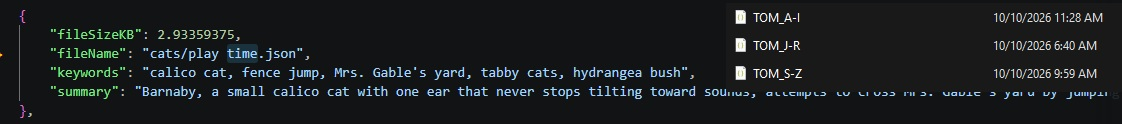
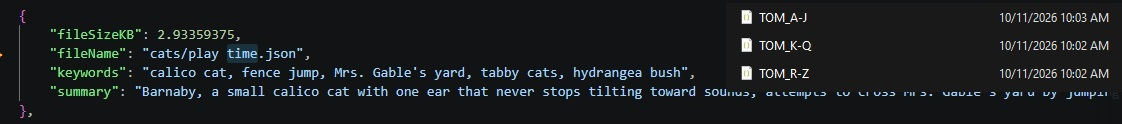
changed the TOM alphabet ranges, jr could conflict with user saying TOM jr.

diff --git a/src/tableOfMemories.ts b/src/tableOfMemories.ts
@@ -42,9 +42,9 @@ async function createTableOfMemories(
     memoriesDirectory: string,
 ): Promise<void> {
     const tableNames = [
-        "TOM_A-I.json",
-        "TOM_J-R.json",
-        "TOM_S-Z.json", // Special characters will live in S-Z.
+        "TOM_A-J.json",
+        "TOM_K-Q.json",
+        "TOM_R-Z.json", // Special characters will live in R-Z.
     ];
 
     for (const tableName of tableNames) {
@@ -115,11 +115,11 @@ async function initializeTableOfMemoriesFromLegacyPluginVersion(
             const firstCharacter = category.name[0].toUpperCase();
 
             const tomFileName =
-                firstCharacter >= "A" && firstCharacter <= "I"
-                    ? "TOM_A-I.json"
-                    : firstCharacter >= "J" && firstCharacter <= "R"
-                        ? "TOM_J-R.json"
-                        : "TOM_S-Z.json";
+                firstCharacter >= "A" && firstCharacter <= "J"
+                    ? "TOM_A-J.json"
+                    : firstCharacter >= "K" && firstCharacter <= "Q"
+                        ? "TOM_K-Q.json"
+                        : "TOM_R-Z.json";
 
             const tomFilePath = path.join(
                 memoriesDirectory,
@@ -374,11 +374,11 @@ export async function updateTableOfMemoriesIncrementally(
         const firstCharacter = category[0].toUpperCase();
 
         const tomFileName =
-            firstCharacter >= "A" && firstCharacter <= "I"
-                ? "TOM_A-I.json"
-                : firstCharacter >= "J" && firstCharacter <= "R"
-                    ? "TOM_J-R.json"
-                    : "TOM_S-Z.json";
+            firstCharacter >= "A" && firstCharacter <= "J"
+                ? "TOM_A-J.json"
+                : firstCharacter >= "K" && firstCharacter <= "Q"
+                    ? "TOM_K-Q.json"
+                    : "TOM_R-Z.json";
 
         const tomFilePath = path.join(
             memoriesDirectory,
@@ -507,11 +507,11 @@ export async function deleteMemoryFromTableOfMemories(
     const firstCharacter = category[0].toUpperCase();
 
     const tomFileName =
-        firstCharacter >= "A" && firstCharacter <= "I"
-            ? "TOM_A-I.json"
-            : firstCharacter >= "J" && firstCharacter <= "R"
-                ? "TOM_J-R.json"
-                : "TOM_S-Z.json";
+        firstCharacter >= "A" && firstCharacter <= "J"
+            ? "TOM_A-J.json"
+            : firstCharacter >= "K" && firstCharacter <= "Q"
+                ? "TOM_K-Q.json"
+                : "TOM_R-Z.json";
 
     const tomFilePath = join(memoriesDirectory, tomFileName);
     const fileName = `${category}/${filename}`;
@@ -541,9 +541,9 @@ export async function tableOfMemoriesSummariesLookup(
     const memoriesDirectory = await memoryStore.getMemoriesDirectory();
 
     const tomFileNames = [
-        "TOM_A-I.json",
-        "TOM_J-R.json",
-        "TOM_S-Z.json",
+        "TOM_A-J.json",
+        "TOM_K-Q.json",
+        "TOM_R-Z.json",
     ];
 
     // Load all TOM entries into memory.
@@ -805,9 +805,9 @@ export async function tableOfMemoriesDirectLookup(
         await memoryStore.getMemoriesDirectory();
 
     const validTomFiles = [
-        "TOM_A-I",
-        "TOM_J-R",
-        "TOM_S-Z",
+        "TOM_A-J",
+        "TOM_K-Q",
+        "TOM_R-Z",
     ];
 
     const normalizedTomName = tomName

diff --git a/src/toolsProvider.ts b/src/toolsProvider.ts
@@ -369,14 +369,14 @@ export async function toolsProvider(
             `This tool is used for when the user wants the assistant to display to them the table of memories.` +
             `The table of memories only contains metadata and summaries of memory files.` +
             `This tool is not meant to be used unless explicitly called for by the user.` +
-            `Always first ask for the user to clarify which specific Memories Table they would like to look up; their options are TOM_A-I, TOM_J-R, TOM_S-Z.`,
+            `Always first ask for the user to clarify which specific Memories Table they would like to look up; their options are TOM_A-J, TOM_K-Q, TOM_R-Z.`,
             
         parameters: {
             tableToLookUp: z
             .string()
             .trim()
             .min(1)
-            .describe("Available Memories Tables: 'TOM_A-I', 'TOM_J-R', 'TOM_S-Z'"),
+            .describe("Available Memories Tables: 'TOM_A-J', 'TOM_K-Q', 'TOM_R-Z'"),
         },
 
         implementation: async (params: {
